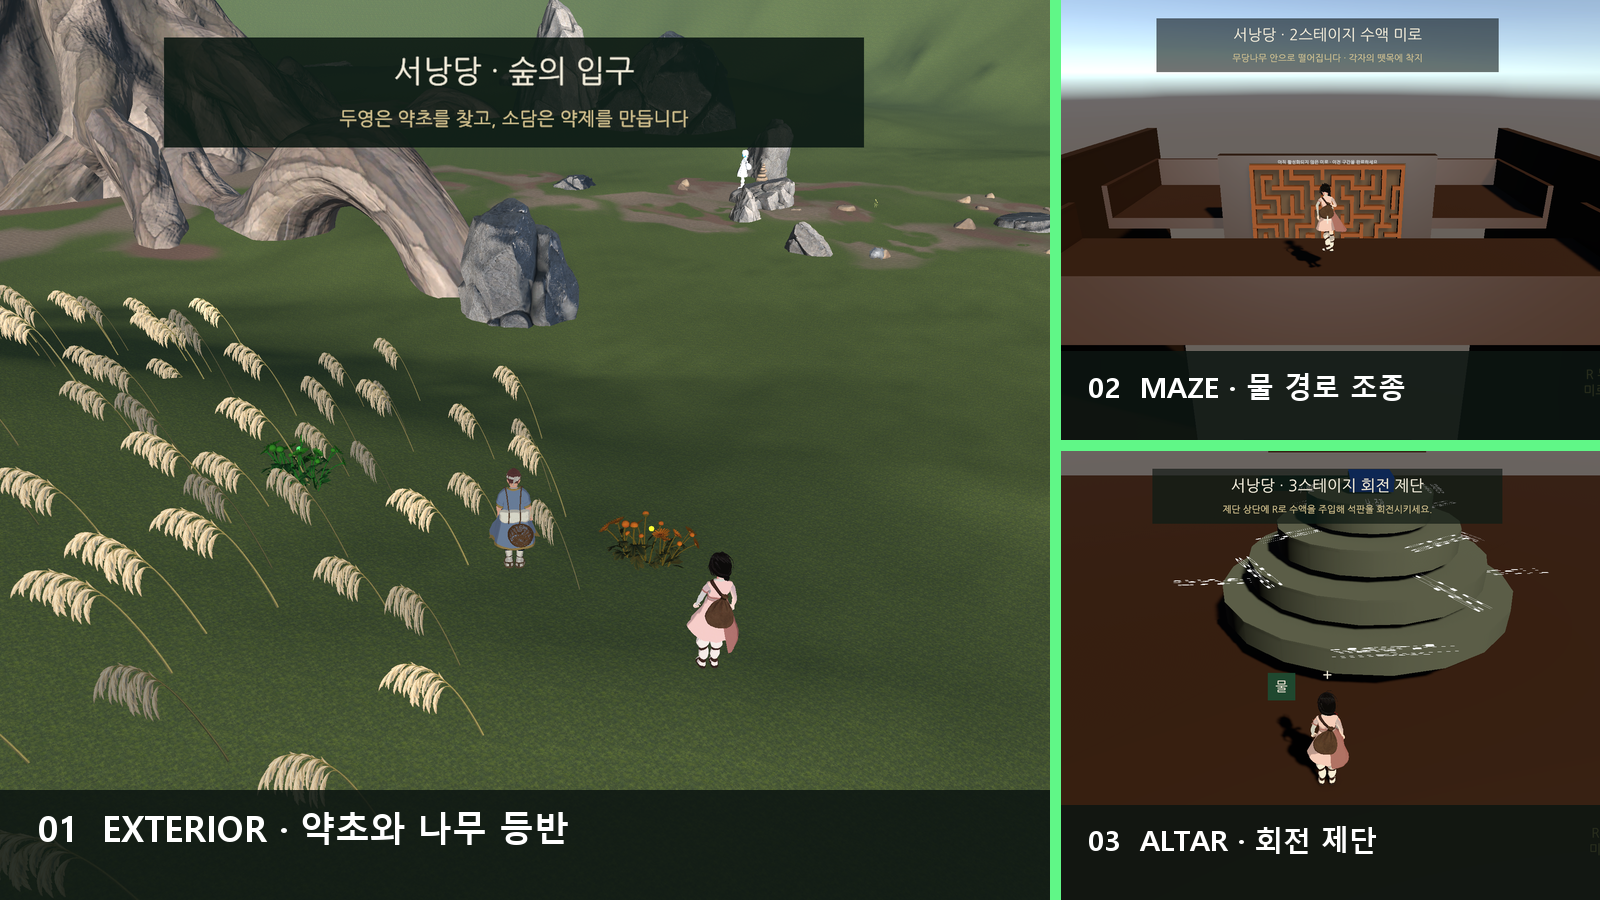
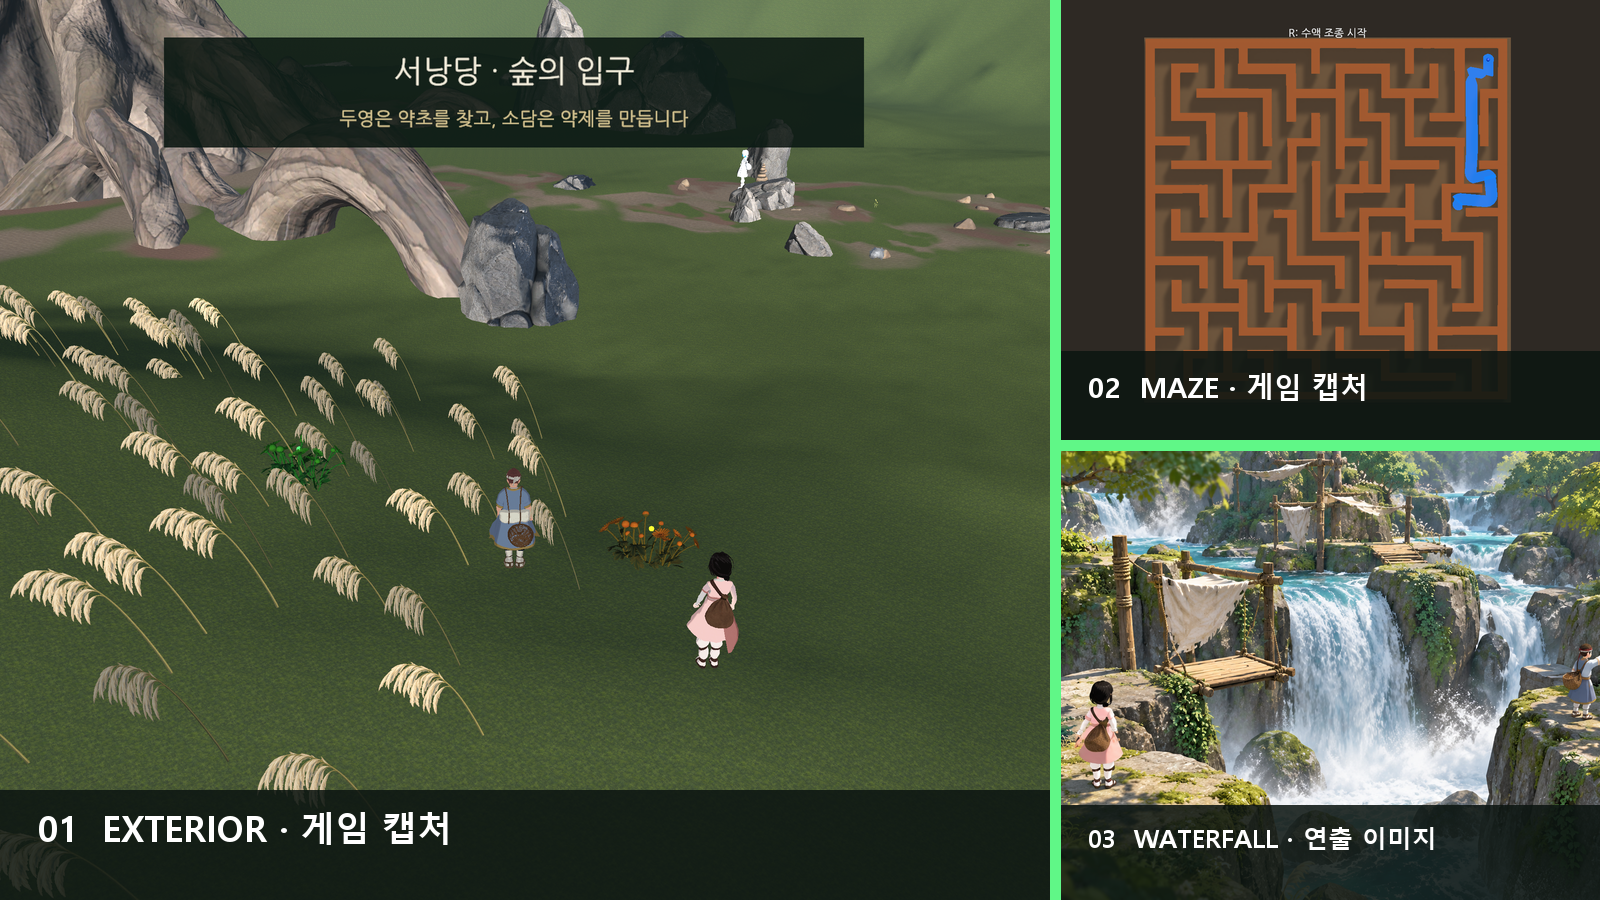
Prepare Herbalist portfolio gameplay and architecture visuals

diff --git a/Portfolio/Herbalist/make_slide_pairs.py b/Portfolio/Herbalist/make_slide_pairs.py
@@ -1,0 +1,90 @@
+"""Build 16:9 portfolio visuals from authored diagrams and traceable source images."""
+
+from pathlib import Path
+from PIL import Image, ImageDraw, ImageFont, ImageOps
+
+HERE = Path(__file__).resolve().parent
+OUT = HERE / "images"
+CAP = OUT / "captures"
+FONT = Path(r"C:\Windows\Fonts\malgun.ttf")
+BOLD = Path(r"C:\Windows\Fonts\malgunbd.ttf")
+
+
+def font(size, bold=False):
+    return ImageFont.truetype(str(BOLD if bold else FONT), size)
+
+
+def text(draw, xy, label, size, color, bold=False):
+    draw.text(xy, label, font=font(size, bold), fill=color)
+
+
+def image_panel(canvas, source, box, label, tag="GAME CAPTURE"):
+    x0, y0, x1, y1 = box
+    with Image.open(source) as src:
+        focus = (0.5, 0.78) if source.name == "stage01_live_game_full.png" else (0.5, 0.5)
+        fitted = ImageOps.fit(src.convert("RGB"), (x1 - x0, y1 - y0), method=Image.Resampling.LANCZOS, centering=focus)
+    canvas.paste(fitted, (x0, y0))
+    d = ImageDraw.Draw(canvas, "RGBA")
+    compact = y1 - y0 < 200
+    d.rectangle((x0, y1 - (40 if compact else 58), x1, y1), fill=(11, 25, 21, 225))
+    text(d, (x0 + 18, y1 - (36 if compact else 50)), label, 22 if compact else 26, "white", True)
+    text(d, (x1 - 186, y1 - (29 if compact else 42)), tag, 14 if compact else 16, (167, 250, 190), True)
+
+
+def make(name, title, diagram, panels, note):
+    im = Image.new("RGB", (1600, 900), (247, 248, 247))
+    d = ImageDraw.Draw(im)
+    d.rectangle((0, 0, 1600, 12), fill=(96, 247, 135))
+    text(d, (48, 33), title, 39, (26, 31, 30), True)
+    d.line((48, 100, 1552, 100), fill=(207, 216, 211), width=2)
+    with Image.open(OUT / diagram) as src:
+        thumb = ImageOps.contain(src.convert("RGB"), (610, 742), method=Image.Resampling.LANCZOS)
+    im.paste(thumb, (48, 119))
+    d.rounded_rectangle((682, 119, 1552, 861), radius=18, fill="white", outline=(207, 216, 211), width=2)
+    if len(panels) == 1:
+        source, label, tag = panels[0]
+        image_panel(im, source, (700, 138, 1534, 606), label, tag)
+    else:
+        h = 150
+        for i, (source, label, tag) in enumerate(panels):
+            y = 138 + i * 156
+            image_panel(im, source, (700, y, 1534, y + h), label, tag)
+    d = ImageDraw.Draw(im)
+    d.rounded_rectangle((700, 630, 1534, 840), radius=14, fill=(28, 37, 34)) if len(panels) == 1 else None
+    note_y = 654 if len(panels) == 1 else 630
+    for line in note:
+        text(d, (728, note_y), line, 25, (238, 244, 240) if len(panels) == 1 else (54, 67, 60), False)
+        note_y += 42
+    im.save(OUT / name, optimize=True)
+
+
+if __name__ == "__main__":
+    make(
+        "10_movement_with_gameplay.png", "입력 예측과 재시뮬레이션",
+        "02_client_prediction.png",
+        [(CAP / "stage1_two_players_raw.png", "Host / Client 2인 화면", "GAME CAPTURE")],
+        ["클라이언트의 로컬 입력을 먼저 시뮬레이션", "Host 상태를 받아 같은 Tick을 재시뮬레이션", "JumpSequence로 점프 입력 중복 소비 방지"],
+    )
+    make(
+        "11_leaf_with_gameplay.png", "나뭇잎 능력의 권한 분리",
+        "03_leaf_replication.png",
+        [(CAP / "stage1_leaf_hud_raw.png", "나뭇잎 슬롯과 게임 HUD", "GAME CAPTURE")],
+        ["Host가 충돌 대상과 설치 위치 확정", "Client는 복제 상태로 외형·발판 표시", "실제 캡처는 능력 HUD 중심 장면"],
+    )
+    make(
+        "12_maze_with_gameplay.png", "물 미로 시뮬레이션과 표현",
+        "04_maze_simulation.png",
+        [(CAP / "stage2_maze_control_raw.png", "물 미로 조종 화면", "GAME CAPTURE")],
+        ["Host는 경로·누수·잔량 계산", "Client는 복제 상태로 물길을 그림", "실제 게임 화면은 Stage 2 프로토타입 캡처"],
+    )
+    make(
+        "13_transition_with_gameplay.png", "씬 전환 중 상태 보존",
+        "05_stage_transition.png",
+        [
+            (OUT / "stage01_live_game_full.png", "Stage 1 · 숲", "GAME CAPTURE"),
+            (CAP / "stage2_maze_control_raw.png", "Stage 2 · 미로", "GAME CAPTURE"),
+            (OUT / "06_waterfall_concept.png", "Stage 3 · 폭포", "CONCEPT ART"),
+        ],
+        ["Stage 3 이미지는 실제 게임 캡처가 아닌 연출 이미지입니다."],
+    )
+    print("Built four 1600×900 technical page visuals")

diff --git a/Portfolio/Herbalist/build_images.py b/Portfolio/Herbalist/build_images.py
@@ -64,9 +64,9 @@ def fit_crop(path, size, focus=(0.5, 0.5)):
 
 
 def hero():
-    a = ROOT / "Temp/PortfolioCaptures/stage01_live_game_full.png"
-    b = ROOT / "Assets/_Project/Documentation/UI/Screenshots/06-stage02-hud-1920x1080.png"
-    c = ROOT / "Assets/_Project/Documentation/UI/Screenshots/07-stage03-altar-hud-1920x1080.png"
+    a = OUT / "stage01_live_game_full.png"
+    b = ROOT / "Captures/stage2_sap_trail_preview.png"
+    c = OUT / "06_waterfall_concept.png"
     out = Image.new("RGB", (1600, 900), INK)
     out.paste(fit_crop(a, (1050, 900), (0.52, 0.55)), (0, 0))
     out.paste(fit_crop(b, (540, 440), (0.51, 0.52)), (1060, 0))
@@ -76,9 +76,9 @@ def hero():
         d.rectangle(box, fill=(12, 21, 17, 222))
     d.rectangle((1050, 0, 1060, 900), fill=GREEN)
     d.rectangle((1060, 440, 1600, 450), fill=GREEN)
-    txt(d, (38, 803), "01  EXTERIOR · 약초와 나무 등반", 35, "white", True)
-    txt(d, (1088, 367), "02  MAZE · 물 경로 조종", 28, "white", True)
-    txt(d, (1088, 820), "03  ALTAR · 회전 제단", 28, "white", True)
+    txt(d, (38, 803), "01  EXTERIOR · 게임 캡처", 35, "white", True)
+    txt(d, (1088, 367), "02  MAZE · 게임 캡처", 28, "white", True)
+    txt(d, (1088, 820), "03  WATERFALL · 연출 이미지", 25, "white", True)
     out.save(OUT / "01_gameplay_capture_collage.png", optimize=True)
 
 

diff --git a/Portfolio/Herbalist/README.md b/Portfolio/Herbalist/README.md
@@ -1,18 +1,24 @@
-# HERBALIST 포트폴리오 이미지 초안
+# HERBALIST 포트폴리오 이미지
 
-현재 게임의 3스테이지는 **폭포**다. 아래 합성 이미지와 생성 스크립트의 제단 화면은 이전 프로토타입을 사용한 임시 자료이므로 최종 포트폴리오에 그대로 사용하지 않는다.
-
-원본 포트폴리오 PDF의 16:9 페이지 구성을 기준으로 제작했다. 원본 PDF와 게임 에셋은 수정하지 않았다.
+16:9 포트폴리오 페이지에 넣을 이미지 세트. **게임 캡처**, **AI 연출 이미지**, **구조 도식**의 출처를 구분한다. 현재 3스테이지는 **폭포**이며 제단 프로토타입 화면은 사용하지 않는다.
 
 | 파일 | 용도 | 출처 |
 | --- | --- | --- |
-| `images/stage01_live_game_full.png` | 프로젝트 개요의 단독 게임 화면 | 2026-10-17 현재 `Stage_01_ModelingReference`를 Unity Play 모드에서 3840×2160으로 캡처 |
-| `images/01_gameplay_capture_collage.png` | 프로젝트 개요의 임시 3스테이지 이미지 | 위 실시간 캡처 + 기존 `Documentation/UI/Screenshots`의 미로·제단 프로토타입 화면 합성. 제단 부분은 폭포 화면으로 교체 필요 |
-| `images/02_client_prediction.png` | 플레이어 이동 기술 페이지 왼쪽 이미지 | `NetworkPlayer`, `CharacterControllerMotor`의 실제 처리 순서를 도식화 |
-| `images/03_leaf_replication.png` | 나뭇잎 능력 기술 페이지 왼쪽 이미지 | `NetworkLeafAbility`, `NetworkLeafProjectile`, `LeafInstallTarget`의 권한·복제 흐름 도식화 |
-| `images/04_maze_simulation.png` | 미로 기술 페이지 왼쪽 이미지 | `SapMazeSimulation`, `SapMazeBoard`의 그래프 상태·순환 버퍼 도식화 |
-| `images/05_stage_transition.png` | 씬 전환 기술 페이지 왼쪽 이미지 | `FusionLobbySession`의 스냅샷·로드·복원 흐름 도식화 |
+| `images/00_overview_abilities_concept.png` | 개요: 두 캐릭터가 각각 나뭇잎·물 능력을 사용하는 장면 | 2026-10-17 Stage 1 게임 캡처를 참조해 이미지 생성 도구로 만든 **연출 이미지**. 실제 게임 화면이 아님 |
+| `images/01_gameplay_capture_collage.png` | 개요: 세 스테이지 이미지 | Stage 1·2 실제 게임 캡처 + Stage 3 폭포 연출 이미지. 오른쪽 아래에 구분 표기 |
+| `images/06_waterfall_concept.png` | Stage 3 폭포 참고 이미지 | Stage 1 캡처를 참조해 이미지 생성 도구로 만든 **연출 이미지**. 실제 Stage 3 화면이 아님 |
+| `images/10_movement_with_gameplay.png` | 이동·입력 예측 기술 페이지 | 구조 도식 + 2026-10-05 두 플레이어 게임 캡처 |
+| `images/11_leaf_with_gameplay.png` | 나뭇잎 능력 기술 페이지 | 구조 도식 + 실제 나뭇잎 HUD 게임 캡처 |
+| `images/12_maze_with_gameplay.png` | 물 미로 기술 페이지 | 구조 도식 + 2026-10-05 Stage 2 프로토타입 게임 캡처 |
+| `images/13_transition_with_gameplay.png` | 씬 전환 기술 페이지 | 구조 도식 + Stage 1·2 실제 게임 캡처 + Stage 3 폭포 연출 이미지 |
 
-이미지를 다시 만들려면 이 폴더에서 `build_images.py`를 실행한다. Python Pillow와 Windows 맑은 고딕이 필요하다.
+`images/captures/`에는 사용한 게임 캡처 원본을 변형 없이 복사했다. `images/stage01_live_game_full.png`도 2026-10-17 Unity Play 모드에서 촬영한 원본이다. 이 Stage 1 캡처는 최신 모델링 브랜치를 합치기 **전** 화면이므로 현재 배치의 최종 모습으로 설명하지 않는다. Unity 에디터 또는 실행 빌드가 현재 연결되지 않아 이번 작업에서 새 라이브 캡처는 촬영하지 못했다.
 
-현재 미로·제단 캡처는 기존 UI 문서에 저장된 프로토타입 화면이다. 특히 제단은 현재 3스테이지가 아니므로 폭포 게임 화면으로 교체해야 한다. 최신 아트와 실제 2인 플레이 화면으로 교체할 때 `build_images.py`의 `hero()` 입력 경로와 제목도 함께 바꾼다.
+구조 도식의 원본은 `02_client_prediction.png`부터 `05_stage_transition.png`까지다. `build_images.py`로 도식과 개요 콜라주를, `make_slide_pairs.py`로 도식과 게임 캡처를 결합한 16:9 기술 페이지를 다시 만든다. 두 스크립트는 Python Pillow와 Windows 맑은 고딕을 사용한다.
+
+이미지 생성 도구에 준 핵심 요청은 다음과 같다.
+
+- 개요: 실제 Stage 1 캡처의 두 캐릭터·숲 스타일을 참고해, 한 캐릭터는 초록 나뭇잎을 투척·설치하고 다른 캐릭터는 푸른 물줄기를 기믹에 주입하는 한 장면. UI와 글자는 제외.
+- 폭포: 같은 캐릭터와 게임 스타일을 참고해, 두 사람이 폭포 양옆 발판에서 협동하는 3스테이지 참고 장면. 제단·전투·UI·글자는 제외.
+
+최종 PDF에 넣을 때 연출 이미지에는 **‘연출 이미지’ 또는 ‘Concept Art’** 캡션을 유지한다. 실제 캡처로 대체할 때는 해당 캡션과 입력 경로를 함께 갱신한다.
